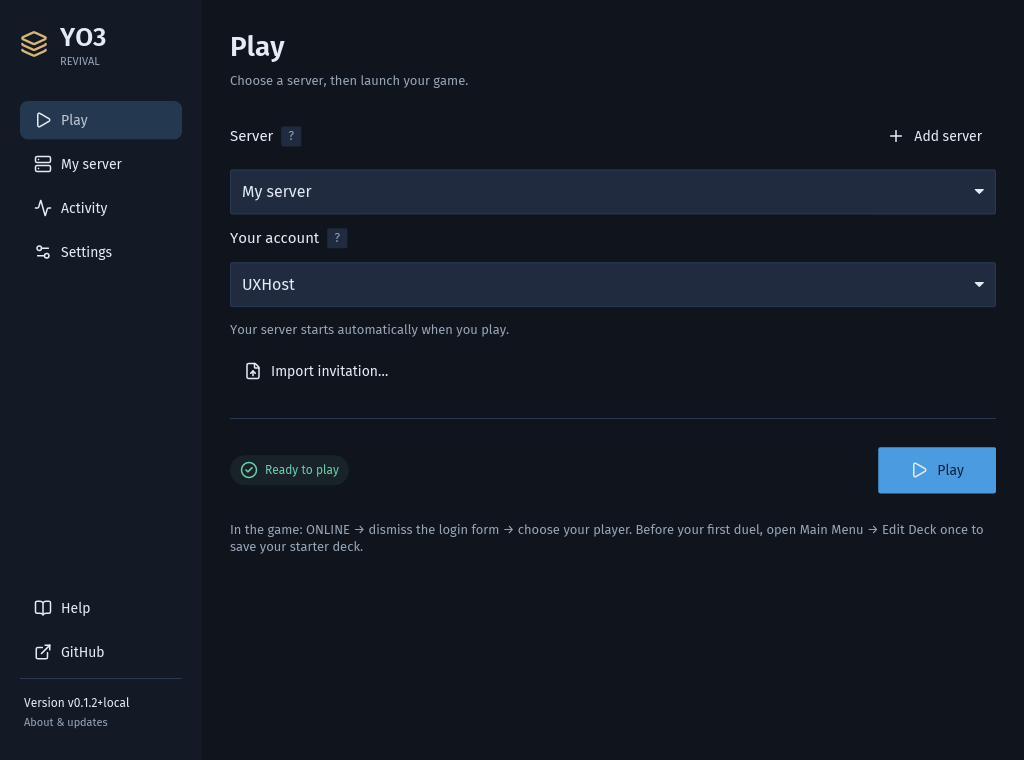
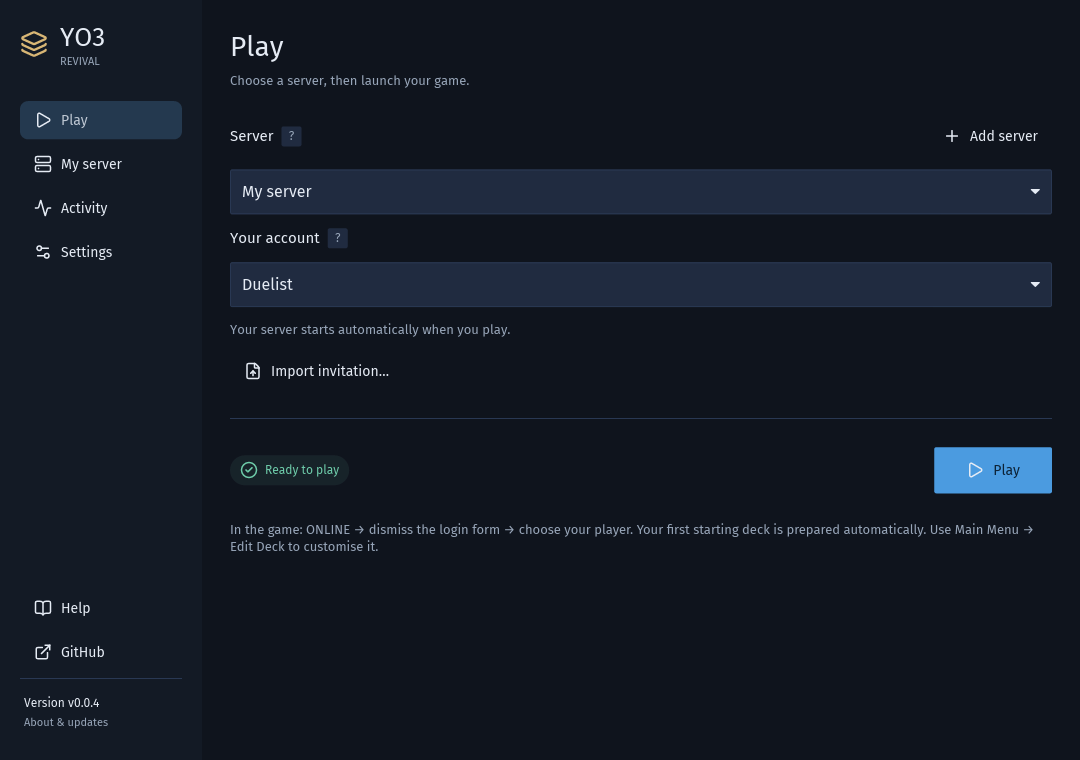
docs: refresh graphical launcher guides and screenshots
Make release downloads and the current GUI the normal setup route. Document the old-server upgrade path, use current button/tab names, refresh all launcher screenshots, remove obsolete join-page pictures and include the illustrated guide in both bundles.

diff --git a/docs/launcher.md b/docs/launcher.md
@@ -1,8 +1,12 @@
 # YO3 Revival: play and host from one window
 
-Open **yo3-revival.exe** on Windows or **yo3-revival** on Linux after extracting the complete application bundle.
-The graphical launcher described here is available in current source builds; releases through v0.0.3 predate it.
-The four pages are **Play**, **My server**, **Activity** and **Settings**. Help, GitHub and the version are in the footer.
+[Download the latest release](https://github.com/usersina/yo3-revival/releases/latest), choose the Windows ZIP or
+Linux archive, and extract the complete bundle. Open **yo3-revival.exe** on Windows or **yo3-revival** on Linux.
+The graphical launcher is included from **v0.0.4** onward; no terminal or development tools are needed.
+
+The four pages are **Play**, **My server**, **Activity** and **Settings**. Help, GitHub and the current version are
+at the bottom of the sidebar. Question-mark tooltips explain unfamiliar settings. Advanced options stay collapsed
+until you need them.
 
 **Contents**
 
@@ -15,6 +19,7 @@ The four pages are **Play**, **My server**, **Activity** and **Settings**. Help,
 - [Logs and support](#logs-and-support)
 - [Application updates](#application-updates)
 - [Your data and upgrades](#your-data-and-upgrades)
+- [Upgrade from v0.0.3 or earlier](#upgrade-from-v003-or-earlier)
 - [Troubleshooting](#troubleshooting)
 - [Getting the original game](#getting-the-original-game)
 
@@ -23,21 +28,27 @@ The four pages are **Play**, **My server**, **Activity** and **Settings**. Help,
 Install your own **Yu-Gi-Oh! ONLINE 3 ver. 1.153**. Linux players also need Wine. Our bundle includes the server,
 rules engine, connection DLL and launcher; it contains no original game files.
 
-In **Settings**, choose the folder containing `yo3.exe`, `yo3.idx` and `package/`, then **Save changes**. A separate
-Wine prefix can be selected under **Advanced game options**. Each section saves only its own fields; **Cancel**
-discards that section's draft. Start and Play use saved configuration.
+In **Settings**, choose the folder containing `yo3.exe`, `yo3.idx` and `package/`, then **Save changes**. If the
+correct game folder is already detected, leave it in place. A separate Wine prefix can be selected under
+**Advanced game options** on Linux; Wine settings do not appear on Windows. Each section saves only its own
+fields; **Cancel** discards that section's draft. Start and Play use saved configuration.
+
+![Settings with the game folder and component checks](images/launcher-settings.png)
 
 The saved setup checks the complete game data, injector and matching connection DLL. **Ready to play** means the
 preflight succeeded. **Continue to Play** finishes first-time setup. If something is missing, **Repair**
 explains whether to choose a complete game installation or restore the complete application bundle from a release
 download. Recheck after restoring files. Our DLL also acknowledges readiness before authentication and game resume.
-The original executable and INI stay unchanged.
+The original executable and INI stay unchanged. If you are moving from an older release, follow the
+[upgrade steps](#upgrade-from-v003-or-earlier) before starting your server.
 
 ## Play locally
 
 On **Play**, select **My server** and press **Play**. The launcher creates the first local account if necessary and
 starts its local server automatically. No sharing address or firewall configuration is needed for local play.
 The account dropdown controls your game login; managing another account under My server does not change it.
+
+![Play with the server and account in one section](images/launcher.png)
 
 The UI reports **Starting game** until the authenticated launcher signals readiness, then **Game running**.
 **Close game** ends that session while hosting can continue. On Wine, a cold prefix can take longer to initialise;
@@ -47,6 +58,9 @@ In the game, select **ONLINE**, dismiss the original login form and choose your 
 fields are unused because the launcher authenticated the account. On a fresh player profile, the mod prepares a
 legal starting deck and selects it if you have no selection. This runs only once: existing decks, even unfinished
 ones, and all later edits or deletions are preserved.
+
+![Choose a player after the launcher has authenticated your account](images/guide/5-select-player.png)
+
 Visit **Kaiba Corporation** for a computer opponent or use **Auto Duel** with a friend.
 **Main Menu → Edit Deck** is available whenever you want to customise your decks.
 
@@ -88,6 +102,10 @@ An explicit external `:port` in the sharing address supports router/VPN port map
 Stop your server before saving hosting changes. Its data folder and first player for a new server are also under
 Advanced. The overview reports **Running on this computer**, online players and duels; that is local process status,
 not proof that the address is reachable from another network. **Stop server** disconnects its players.
+
+![The server overview with independent hosting and private invitations](images/launcher-server.png)
+
+The screenshot uses an example sharing address. Use an address your friends can actually reach.
 
 ## Connection help
 
@@ -133,6 +151,8 @@ original generic connection failure: a server cannot inspect files on another co
 offers **Current session** or **All retained sessions**, then previews the file count, date range and size before saving
 one ZIP. The current scope includes this manager, its attached server and latest game run; all retained sessions
 includes current and older history. Nothing is uploaded.
+
+![Export logs with session scope and report preview](images/launcher-logs.png)
 
 Logs rotate at 2 MiB and are retained up to 14 days or 100 MiB, preserving active process logs. The viewer reads at most
 96 KiB. **Diagnostics options** enables detailed tracing for the next game/server start; save or cancel that section
@@ -190,6 +210,32 @@ Restore a database backup only with the server stopped. A migrated directory wit
 rather than silently reimporting stale JSON. Returning to an older server requires the original pre-upgrade JSON
 snapshot; it cannot read SQLite or retain subsequent database-only changes.
 
+## Upgrade from v0.0.3 or earlier
+
+This is the first release with the graphical launcher, so this upgrade starts with a manual download. Later
+versions can be installed through **About & updates** after confirmation.
+
+1. Stop the old server. Securely back up its **entire `data/` folder**, plus players' local
+   **`Documents/Yu-Gi-Oh! ONLINE 3`** folders. Keep the old bundle and backup until the upgrade works.
+2. Extract the complete new bundle into a separate folder and open **yo3-revival.exe** or **yo3-revival**.
+   Set your game folder in **Settings**.
+3. Before starting hosting, open **My server → Advanced**, select the old server's **data folder**, set the
+   sharing address if friends will join, and **Save changes**. Selecting a folder uses it directly; it does not
+   copy its contents. Do not run the old and new servers against the same folder together.
+4. Choose **My server → Overview → Start server**. Existing accounts, cards, BP and records import into SQLite
+   automatically. The original JSON files remain as migration copies. The launcher creates or maintains the server
+   identity without replacing an existing private key.
+5. In **Players & invitations**, choose each existing account and **Export private invitation…**. Send the new
+   invitation privately to its owner; they import it on **Play** and choose **Save connection**. Existing account
+   credentials and player data carry over; do not create replacement accounts for existing players.
+6. Allow the chosen **TCP port (7443 by default)** through the host firewall/VPN/router. Older raw game ports and
+   the browser `/join` page are retired. Start the game through the launcher or enable optional direct launch;
+   changing `yo3.ini` cannot authenticate an unmodified client.
+
+If importing fails, stop and inspect **Activity**. Repair the reported source problem and retry; do not delete
+account data or SQLite migration markers to force a reimport. See [Your data and upgrades](#your-data-and-upgrades)
+for backups and rollback limits.
+
 ## Troubleshooting
 
 - **Incomplete game:** choose a full supported installation rather than an installer or a shortcut.
@@ -198,7 +244,7 @@ snapshot; it cannot read SQLite or retain subsequent database-only changes.
 - **Identity error:** confirm changes with the host or import their updated invitation. Automatic certificate renewal
   with the same identity does not require approving a new key. An expired certificate still needs renewal by the host.
 - **Authentication refused:** the key belongs to an account on that specific server; import the correct invitation.
-- **Game startup fails:** see **Activity → Launcher & game**. The supported client and required DLL must match.
+- **Game startup fails:** see **Activity → Game & launcher**. The supported client and required DLL must match.
 - **Account name refused:** use a unique player name, 1–16 characters, and at most four players per account.
 - **Long session disconnected:** launcher sessions last 12 hours; close and launch the game again.
 - **Windows warnings:** the executables and injection DLL are unsigned. See the

diff --git a/docs/guide.md b/docs/guide.md
@@ -8,8 +8,9 @@ This page is the command-line reference and source-build guide; both routes use 
 and game files.
 
 Everyone uses the revival launcher and connection DLL with their own original game install (ver. 1.153). The
-server and launcher authenticate each account over TLS. The game executable and `yo3.ini` stay unchanged; no game files are shipped. These instructions
-are for current source; the last published release predates the authenticated launcher.
+server and launcher authenticate each account over TLS. The game executable and `yo3.ini` stay unchanged; no game
+files are shipped. These commands apply to **v0.0.4 and later**. For a graphical upgrade from an earlier release,
+follow [the upgrade steps](launcher.md#upgrade-from-v003-or-earlier).
 
 **Contents**
 
@@ -27,7 +28,8 @@ are for current source; the last published release predates the authenticated la
 
 ## Play on your own PC
 
-First obtain a **current bundle** (see [Run from source](#run-from-source)). Extract it and open a terminal in the
+First [download the current release](https://github.com/usersina/yo3-revival/releases/latest), or
+[build from source](#run-from-source). Extract the bundle and open a terminal in the
 extracted folder. The host needs its own game install too: the server reads its card, deck and other data.
 
 These commands create a local-only identity. If you plan to host friends, use [For the host](#for-the-host) instead
@@ -101,8 +103,10 @@ VPN. The internal HTTP/admin port (8080 by default) stays on loopback; do not fo
 
 **Existing setup:** keep `data/`. Export `profile EXISTING_PLAYER client.json --advertise HOST` to reuse that player's
 account and cards/BP/ids; address-only accounts receive a key. A localhost-only certificate does not cover a LAN IP.
-`init-auth` refuses to overwrite an existing identity: choose an address already covered, or plan a new identity and
-redistribute its certificate and profiles. Do not delete your account data to change the certificate.
+`init-auth` refuses to overwrite an existing identity. To add a sharing address while retaining that identity,
+use the graphical manager with the same data folder: stop hosting, save the new sharing address under
+**My server → Advanced**, then start hosting. It updates self-managed certificates with the same private key.
+Export updated profiles/invitations as needed; do not delete account data or the identity key.
 The old `/join` page and INI downloads are retired. See [authentication.md](authentication.md) for the design.
 
 **Backups:** persistent state lives in `data/server.db` (SQLite), imported once from existing JSON files. Consistent
@@ -153,7 +157,6 @@ The Linux GUI build also needs pkg-config and the X11, Wayland and xkbcommon dev
 ```sh
 git clone https://github.com/usersina/yo3-revival.git
 cd yo3-revival
-engine/fetch.sh --check
 engine/fetch.sh
 cargo build --release -p yo3-server -p yo3-launcher -p yo3-desktop
 tools/mod/build.sh
@@ -294,7 +297,8 @@ and the remaining live checks, including play from separate friends' machines wi
 - **Duels end at once as draws:** inspect the server's `DUELS WON'T WORK` message. Restore the complete `engine/`
   folder from the bundle, or fetch the dependencies and install a compatible Node.js when building from source.
 - **A long session disconnects:** launcher sessions expire after 12 hours. Restart the launcher to authenticate again.
-- **Found a bug:** open <https://github.com/usersina/yo3-revival/issues/new/choose> with the steps and logs. Do not attach
-  private profiles, account keys or `server.key`. Game packet logs exclude transport credentials.
+- **Found a bug:** open <https://github.com/usersina/yo3-revival/issues/new/choose> with the steps, application version
+  and a diagnostic ZIP from **Activity → Export logs…** when using the GUI. Review it before sharing. Do not attach
+  private profiles, account keys, databases or `server.key`. Game packet logs exclude transport credentials.
 
 The graphical application also supports [confirmed application updates](launcher.md#application-updates), with a visible version, GitHub link and startup release check. Advanced setup is under expandable sections.

diff --git a/README.md b/README.md
@@ -16,19 +16,22 @@ in through the authenticated revival launcher and duel again: against the comput
 There is no public server. You can host on your own PC or join a friend's server. Everyone needs their own install
 of the original game **ver. 1.153**; Linux players also need Wine. Game files are not included.
 
-**Open `yo3-revival.exe` (Windows) or `yo3-revival` (Linux)** from an extracted current bundle. The application
-combines playing, connections, server controls and logs in one window. In **Settings**, choose your game folder.
-Published releases through v0.0.3 predate this application; until a new release is published, a developer must
-[build the current bundles](docs/guide.md#run-from-source).
+1. [Download the latest release](https://github.com/usersina/yo3-revival/releases/latest): choose the Windows ZIP
+   or Linux archive and extract the **whole bundle**.
+2. Open **`yo3-revival.exe`** on Windows or **`yo3-revival`** on Linux.
+3. In **Settings**, choose your game folder and **Save changes**. When it says **Ready to play**, go to **Play**.
+
+The application combines playing, connections, server controls and logs in one window. No terminal, Rust or Node.js
+installation is needed for a release bundle. The graphical launcher is included from **v0.0.4** onward.
 
 - **Joining a friend?** Import their private invitation on **Play**, save the connection and press **Play**.
   You can also discover their address, approve their identity and enter the account key they supplied.
-- **Hosting friends?** Set your reachable address in **My server → Advanced**, then **Start server** in **Overview**.
+- **Hosting friends?** Set your reachable address in **My server → Advanced**, then **My server → Overview → Start server**.
   New servers listen on all IPv4 interfaces; **My server → Advanced** selects a specific interface or port.
   Create accounts and private invitations on **My server → Players & invitations**, and allow the chosen TCP port through the firewall.
 - **Playing alone?** Choose **My server** on **Play** and press **Play**; your server starts automatically.
 
-The [graphical setup guide](docs/launcher.md) walks through all three paths, certificates, data and troubleshooting.
+The [illustrated setup guide](docs/launcher.md) walks through local play, joining, hosting and troubleshooting.
 You can keep hosting your server while joining another, and leave hosting running when you close the application.
 **Settings → Advanced game options → Enable direct launch** optionally sets up the original game executable/shortcut to use your saved
 connection too, with component and server checks before login.
@@ -40,7 +43,8 @@ and `yo3.ini` stay unchanged. Each account has its own access key, so friends sh
 
 The sidebar shows the current version and links to GitHub. Updates are checked automatically at startup;
 **About & updates → Review & install** downloads and installs a verified update after your confirmation.
-See [application updates](docs/launcher.md#application-updates) for restart and data details.
+See [application updates](docs/launcher.md#application-updates) for restart and data details. Upgrading from v0.0.3
+or earlier? Follow [the upgrade steps](docs/launcher.md#upgrade-from-v003-or-earlier) to keep your accounts and cards.
 
 ## Your first duel
 

diff --git a/docs/README.md b/docs/README.md
@@ -23,7 +23,7 @@ readers; this page says which is which and in what order to read them.
 | [client-internals.md](client-internals.md) | Reverse engineers          | Addresses and functions in `yo3.exe`, the field tracer, data file formats, behaviours worth knowing, crash history                                                  |
 | [research.md](research.md)                 | Curious readers            | The feasibility study from before any server code existed, kept as history                                                                                          |
 | [../AGENTS.md](../AGENTS.md)               | Contributors and AI agents | The working guide: ground rules, repo map, commands, the loop for answering a new client request, conventions, environment gotchas                                  |
-| [images/](images/)                         | The READMEs                | Screenshots of the real client running on this server                                                                                                               |
+| [images/](images/)                         | The READMEs and guides     | Screenshots of the current graphical launcher and the real client running on this server |
 
 ## Where to start
 
@@ -42,7 +42,7 @@ readers; this page says which is which and in what order to read them.
 - Four places stay in step: `protocol.md`, `crates/yo3-server/src/front.rs`, the contract tests under
   `crates/yo3-server/tests/` and `roadmap.md`.
 - The docs cite addresses and field names but never paste decompiled code, Konami data or packet logs.
-- Game screenshots in `images/` are 1024x768 client frames with test player names only; `launcher.png` shows our own GUI.
+- Game screenshots in `images/` are 1024x768 client frames with test player names only; `launcher*.png` show our own GUI.
 - Long technical documents start with a table of contents; the short project README and changelog do not need one.
   `tools/docs-check.py --toc FILE` prints one for a file.
 

diff --git a/AGENTS.md b/AGENTS.md
@@ -43,11 +43,11 @@ The [docs index](docs/README.md) says what each document is for. The ones you wi
    Ask before pushing anywhere.
 6. **Code only in git.** Never commit game files, Konami data, decompiled code or packet logs. `re/`, `logs/` and
    `target/` are ignored. Docs may cite addresses and field names, but not paste decompiled code. The one exception
-   is the screenshots in `docs/images/`: they show the game running, they are not game data. Keep them to 1024x768
-   client frames, optimised PNGs under about 600 KB, with test player names and no host paths. The picture guide in
+   is the screenshots in `docs/images/`: they show our launcher and the game running, they are not game data. Keep game
+   screenshots to 1024x768 client frames, optimised PNGs under about 600 KB, with test player names and no host paths. The picture guide in
    `docs/images/guide/` (shipped in the release bundles) is made of crops of such frames and of browser pages with red
-   boxes drawn on them, about 800 px wide and under about 300 KB each; the one non-screenshot, the game-folder
-   listing, is drawn and labelled as an illustration.
+   boxes drawn on them, about 800 px wide and under about 300 KB each. A drawn game-folder listing must be labelled
+   as an illustration. Launcher screenshots show the real current UI with test accounts and no private credentials.
 7. **Don't disturb a live setup.** The user may have a server on the default ports (7443, 8080; older setups may use
    5730/1213/1214) and a client queued on display `:77`. Never stop, restart or touch them, or their `data/`. For your own checks run a
    dev server on other ports and scratch dirs (see Commands) and the second client (`YO3_INSTANCE=b`, display `:78`).
